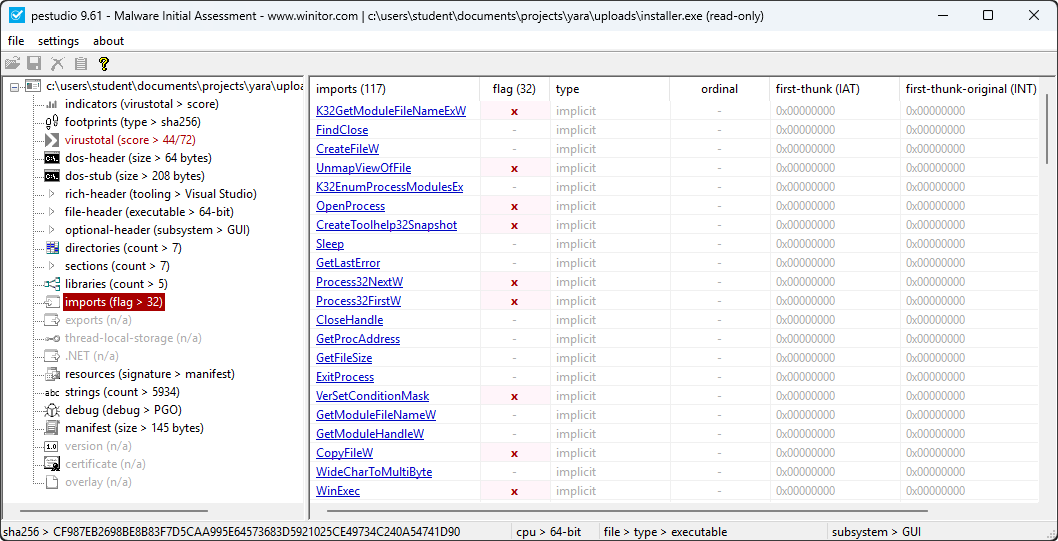
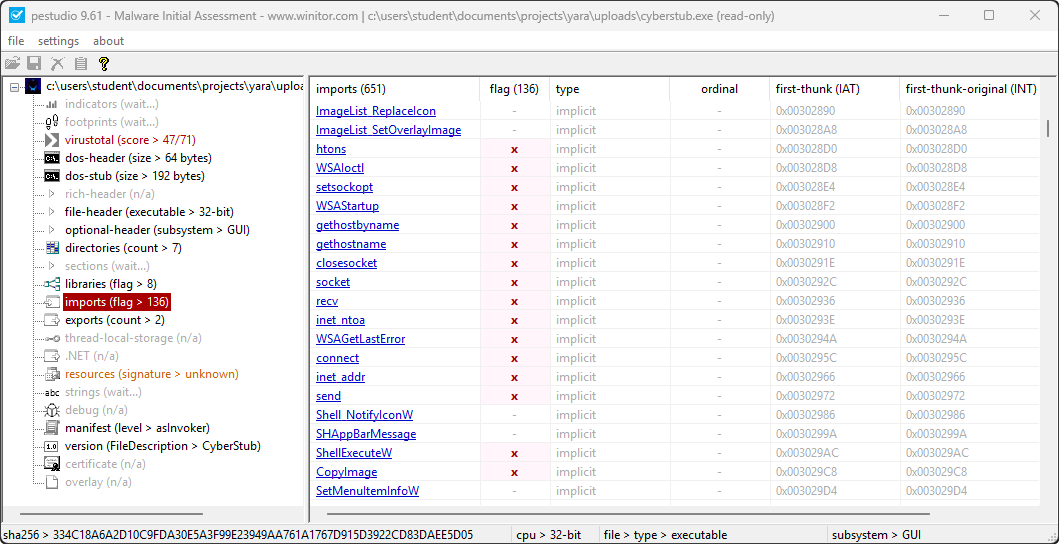
Quartz sync: Feb 18, 2026, 5:45 AM

diff --git a/content/Blog/0034 Detecting Malwares with Yara Rules (Part 1).md b/content/Blog/0034 Detecting Malwares with Yara Rules (Part 1).md
@@ -1,9 +1,9 @@
 ---
 title: "Detecting Malwares with Yara Rules (Part 1)"
-created: 2026-02-17
-modified: 2026-02-17
+created: 2026-02-18
+modified: 2026-02-18
 tags: ["siem", "yara", "python"]
-draft: true
+draft: false
 ---
 
 ## Information
@@ -14,9 +14,9 @@ In this post I'll go through crafting a Yara Rule which will detect malicious ex
 
 ## Meta Data
 
-The purpose of meta in Yara is to describe the name and the purpose of the rule.
+The purpose of meta section in Yara is to describe the name and the purpose of the rule.
 
-```python title=""
+```nginx title=""
 rule ExampleOne {
     meta:
         name = "Example Rule"
@@ -24,43 +24,76 @@ rule ExampleOne {
 }
 ```
 
-![[0034 Detecting-Malwares-with-Yara-Rules-01.png]]
-![[0034 Detecting-Malwares-with-Yara-Rules-02.png]]
-![[0034 Detecting-Malwares-with-Yara-Rules-03.png]]
-![[0034 Detecting-Malwares-with-Yara-Rules-04.png]]
+Usually, the name and description is used to describe the threat actor and the operations the malicious file performs in our system.
 
-```python title="Yara PE"
-import "pe"
+## Strings
 
-rule CyberStub {
+The purpose of strings section in Yara is to search for specific string within executable programs and other files.
+
+```nginx
+rule ExampleOne {
     meta:
-        name = "CyberStub Detection Rules"
-        description = "Detecting CyberStub malware"
-    condition:
-        pe.version_info["ProductName"] == "CyberStub" and 
-        pe.imports("ws2_32.dll", "WSAStartup") and
-        pe.imports("ws2_32.dll", "socket") and
-        pe.imports("ws2_32.dll", "recv") and
-        pe.imports("ws2_32.dll", "inet_addr")
-}
-
-rule Installer {
-    meta:
-        name = "Installer Detection Rule"
-        description = "Detecting Installer malware"
-    condition:
-        pe.
-        pe.imports("kernel32.dll", "VirtualAlloc") and
-        pe.imports("kernel32.dll", "HeapAlloc") and
-        pe.imports("kernel32.dll", "Process32NextW") and 
-        pe.imports("kernel32.dll", "Process32FirstW") and 
-        pe.imports("kernel32.dll", "VirtualAlloc") and
-        pe.imports("kernel32.dll", "CreateToolhelp32Snapshot")
+        name = "Example Rule"
+        description = "This is just an example..."
+    strings:
+        $a = "Hello World"
+    conditions:
+        $a
 }
 ```
 
+Yara will search through all our files to find executable programs and other file types that contains the string. This helps us with identifying all files that belongs to a specific threat actor.
 
-```python title="Yara-Python"
+## Conditions
+
+The purpose of conditions section in Yara is to create conditions using `and` and `or` operators. This allows us to build multiple of conditions to detect malicious files.
+
+```nginx title="Example of AND Operator"
+rule ExampleOne {
+    meta:
+        name = "Example Rule"
+        description = "This is just an example..."
+    strings:
+        $a = "Hello World"
+        $b = "I love you"
+    conditions:
+        $a and $b
+}
+```
+
+```nginx title="Example of OR Operator"
+rule ExampleOne {
+    meta:
+        name = "Example Rule"
+        description = "This is just an example..."
+    strings:
+        $a = "Hello World"
+        $b = "I love you"
+    conditions:
+        $a or $b
+}
+```
+
+A great use case for `and` and `or` operators is when there is multiple of IoCs that can be used together to identify malicious files.
+
+## Example
+
+I'll be creating a Yara Rule using the `yara-python` library to identify all files that contains the string which we identified as malicious in our rule.
+
+```nginx title="rule.yara"
+rule Communication {
+    meta:
+        name = "Joe"
+        description = "Searching for specific strings on the communication between John and Joe."
+    strings:
+        $a = "Hi John!"
+        $b = "My password is"
+    condition:
+        $a and $b
+}
+```
+
+```python title="main.py"
 import yara
 import os
 import hashlib
@@ -85,7 +118,7 @@ def ScanFiles(path="."):
             matches = rule.match(filepath=full_path)
 
             if matches:
-                print("[#] <Malware Detected>")
+                print("[#] File Found")
                 print("[+] File Name: " + f)
                 print("[+] Location: " + full_path)
                 print("[+] SHA256: " + compute_hash(full_path) + "\n")
@@ -93,14 +126,15 @@ def ScanFiles(path="."):
 ScanFiles("uploads/")
 ```
 
+```bash
+[#] File Found
+[+] File Name: Temp_2.txt
+[+] Location: uploads/Temp_2.txt
+[+] SHA256: 90e884b4bf0cdf5bc10455194a23c253d8b2a7cdfb24c8233417d18e46d99c2a
 ```
-[#] Malware Detected
-[+] File Name: cyberstub.exe
-[+] Location: uploads/cyberstub.exe
-[+] SHA256: 334c18a6a2d10c9fda30e5a3f99e23949aa761a1767d915d3922cd83daee5d05
 
-[#] Malware Detected
-[+] File Name: installer.exe
-[+] Location: uploads/installer.exe
-[+] SHA256: cf987eb2698be8b83f7d5caa995e64573683d5921025ce49734c240a54741d90
-```
+When the `$a` and `$b` strings are found in a file the python script will print the File Name, Location, and the SHA256 of the file. As you can see using Yara can save us a-lot of time and quickly identify what we are searching after.
+
+## Conclusion
+
+In this article we went through the basics of Yara but in the upcomming article I'll go through what truly makes Yara special by using it to detect real malwares. I expect to release that article within 2 weeks after this article's release.

diff --git a/content/Blog/9999 Detecting Malware with Yara Rules (Part 2).md b/content/Blog/9999 Detecting Malware with Yara Rules (Part 2).md
@@ -1,0 +1,122 @@
+
+---
+title: "Detecting Malwares with Yara Rules (Part 1)"
+created: 2026-02-17
+modified: 2026-02-17
+tags: ["siem", "yara", "python"]
+draft: true
+---
+
+## PE Header
+
+Yara also comes with libraries such as `PE` which will analyze the PE Header of files. This is really what makes Yara extremely powerful since it allows us to use information from PE Header to identify malicious files.
+
+> [!IMPORTANT]+
+> Please use a Virtual Machine if you will perform these operations in a Virtual Machine.
+
+### Example 1
+
+The `installer.exe` is a malicious executable program which I downloaded through [Baazar Abuse CH](https://bazaar.abuse.ch/). Using PEStudio we can statically analyze the applications PE Header.
+
+![[0034 Detecting-Malwares-with-Yara-Rules-01.png]]
+![[0034 Detecting-Malwares-with-Yara-Rules-02.png]]
+
+
+
+```nginx
+import "pe"
+
+rule Installer {
+    meta:
+        name = "Installer Detection Rule"
+        description = "Detecting Installer malware"
+    condition:
+        pe.os_version.major == 6.0 and
+        pe.size_of_code == 0x0001D600 and
+        pe.imports("kernel32.dll", "VirtualAlloc") and
+        pe.imports("kernel32.dll", "HeapAlloc") and
+        pe.imports("kernel32.dll", "Process32NextW") and 
+        pe.imports("kernel32.dll", "Process32FirstW") and 
+        pe.imports("kernel32.dll", "VirtualAlloc") and
+        pe.imports("kernel32.dll", "CreateToolhelp32Snapshot")
+}
+```
+
+![[0034 Detecting-Malwares-with-Yara-Rules-03.png]]
+![[0034 Detecting-Malwares-with-Yara-Rules-04.png]]
+
+```python title="Yara PE"
+import "pe"
+
+rule CyberStub {
+    meta:
+        name = "CyberStub Detection Rules"
+        description = "Detecting CyberStub malware"
+    condition:
+        pe.version_info["ProductName"] == "CyberStub" and 
+        pe.imports("ws2_32.dll", "WSAStartup") and
+        pe.imports("ws2_32.dll", "socket") and
+        pe.imports("ws2_32.dll", "recv") and
+        pe.imports("ws2_32.dll", "inet_addr")
+}
+
+rule Installer {
+    meta:
+        name = "Installer Detection Rule"
+        description = "Detecting Installer malware"
+    condition:
+        pe.
+        pe.imports("kernel32.dll", "VirtualAlloc") and
+        pe.imports("kernel32.dll", "HeapAlloc") and
+        pe.imports("kernel32.dll", "Process32NextW") and 
+        pe.imports("kernel32.dll", "Process32FirstW") and 
+        pe.imports("kernel32.dll", "VirtualAlloc") and
+        pe.imports("kernel32.dll", "CreateToolhelp32Snapshot")
+}
+```
+
+
+```python title="Yara-Python"
+import yara
+import os
+import hashlib
+
+rule = yara.compile(filepath="rules.yara")
+
+def compute_hash(filepath, algorithm="SHA256"):
+    hash_func = hashlib.new(algorithm)
+
+    with open(filepath, 'rb') as file:
+        while chunk := file.read(8192):
+            hash_func.update(chunk)
+    
+    return hash_func.hexdigest()
+
+def ScanFiles(path="."):
+    for f in os.listdir(path):
+        full_path = os.path.join(path, f)
+        if os.path.isdir(full_path):
+            ScanFiles(full_path)
+        else:
+            matches = rule.match(filepath=full_path)
+
+            if matches:
+                print("[#] <Malware Detected>")
+                print("[+] File Name: " + f)
+                print("[+] Location: " + full_path)
+                print("[+] SHA256: " + compute_hash(full_path) + "\n")
+
+ScanFiles("uploads/")
+```
+
+```bash title="Terminal Output"
+[#] Malware Detected
+[+] File Name: cyberstub.exe
+[+] Location: uploads/cyberstub.exe
+[+] SHA256: 334c18a6a2d10c9fda30e5a3f99e23949aa761a1767d915d3922cd83daee5d05
+
+[#] Malware Detected
+[+] File Name: installer.exe
+[+] Location: uploads/installer.exe
+[+] SHA256: cf987eb2698be8b83f7d5caa995e64573683d5921025ce49734c240a54741d90
+```
